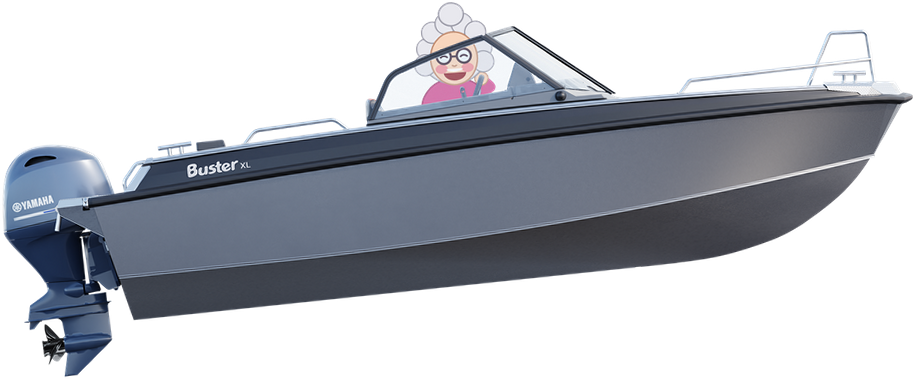
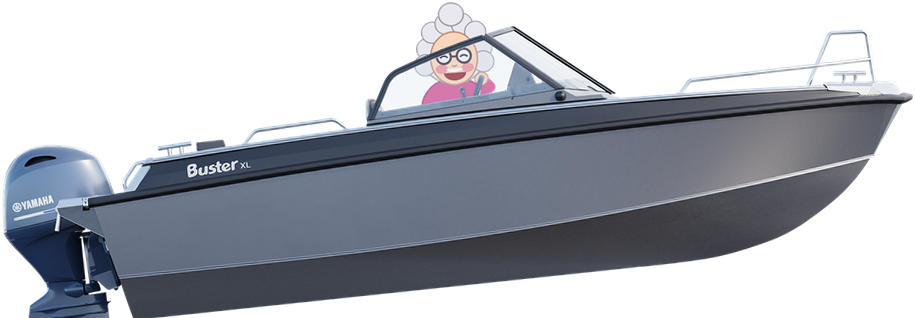
Revert boat smoothing; hide Buster's propeller; tune bow spray
- Back to drawing player boats from the full-size images (the
  pre-shrunk copies looked blurry once the canvas is scaled up).
- Buster image cut just below the hull, so the outboard's lower leg and
  propeller are hidden under water.
- Bow spray: 30% slower along the same arcs, emitted further aft and
  evenly, with a per-boat stretch (Buster's reaches to the outboard);
  density kept even.

diff --git a/src/scenes/GameScene.ts b/src/scenes/GameScene.ts
@@ -57,6 +57,9 @@ interface PlayerBoat {
   // Bow spray is thrown from the hull between the waterline and this line
   // (two points; the boundary of the dark bottom), from the bow contact aft.
   chine: [[x: number, y: number], [x: number, y: number]];
+  // Stretch along the hull the spray comes from, as shares of the way from
+  // the bow contact point (0) to the stern (1); below 0 reaches forward.
+  spray: [from: number, to: number];
 }
 const PLAYER_BOATS: PlayerBoat[] = [
   {
@@ -69,6 +72,7 @@ const PLAYER_BOATS: PlayerBoat[] = [
       [61, 234],
       [505, 187],
     ],
+    spray: [0.2, 0.9],
   },
   // Buster XL is 6 m to the Vejde's 9 m; both images are hull plus a little
   // extra (pulpit/platform, outboard), so width scales with real length.
@@ -82,6 +86,9 @@ const PLAYER_BOATS: PlayerBoat[] = [
       [115, 289],
       [700, 195],
     ],
+    // the Buster's contact point is far aft, so its spray reaches forward
+    // too, and back past the transom to the outboard (above 1)
+    spray: [-0.2, 1.3],
   },
 ];
 
@@ -314,65 +321,26 @@ export class GameScene extends Phaser.Scene {
   /** Dress the player sprite as the chosen boat: art, size, hitbox, bounds. */
   private applyBoat() {
     const spec = this.boatSpec;
-    // Draw from a copy pre-shrunk to the on-screen size (smooth edges); the
-    // spec's points are in original-image px, so convert them by `r`.
-    const width = spec.width * OBJECT_SCALE;
-    this.boat.setTexture(this.smoothTexture(spec.key, width));
-    const r = this.boatTexRatio();
-    this.boat.setScale(width / this.boat.frame.width);
+    this.boat.setTexture(spec.key);
+    this.boat.setScale((spec.width * OBJECT_SCALE) / this.boat.frame.width);
     // Hitbox covers the main hull only, for forgiving collisions. Arcade takes
-    // these in texture px and scales them with the sprite.
+    // these in source-image px and scales them with the sprite.
     const [hx, hy, hw, hh] = spec.hit;
     const body = this.boat.body as Body;
-    body.setSize(hw * r, hh * r, false);
-    body.setOffset(hx * r, hy * r);
+    body.setSize(hw, hh, false);
+    body.setOffset(hx, hy);
     // Bounds keep the boat inside the play area (it clamps to the edges instead
     // of dying there — the only way to fail is touching an obstacle). The
     // bottom is raised by the art below the hitbox, so the hull's visual
     // bottom lands on the deck line rather than crossing it.
-    const below = (this.boat.frame.height - (hy + hh) * r) * this.boat.scaleY;
+    const below = (this.boat.frame.height - hy - hh) * this.boat.scaleY;
     this.physics.world.setBounds(0, 0, GAME_WIDTH, PLAY_HEIGHT - below);
-  }
-
-  /** Player texture px per original-image px (the texture is a shrunk copy). */
-  private boatTexRatio() {
-    return this.boat.frame.width / this.textures.getFrame(this.boatSpec.key).width;
-  }
-
-  /**
-   * A copy of an image shrunk to `width` px with high-quality smoothing, in
-   * halving steps. Shrinking a big image a lot on the GPU each frame samples
-   * only a few of its pixels and leaves jagged edges; drawing a copy at its
-   * on-screen size gives smooth, anti-aliased ones. Cached in the texture
-   * manager, so it is made once per size.
-   */
-  private smoothTexture(key: string, width: number) {
-    const target = Math.max(1, Math.round(width));
-    const out = `${key}@${target}`;
-    if (this.textures.exists(out)) return out;
-    const src = this.textures.get(key).getSourceImage() as HTMLImageElement;
-    const step = (from: CanvasImageSource, w: number, h: number) => {
-      const c = document.createElement("canvas");
-      c.width = w;
-      c.height = h;
-      const ctx = c.getContext("2d")!;
-      ctx.imageSmoothingEnabled = true;
-      ctx.imageSmoothingQuality = "high";
-      ctx.drawImage(from, 0, 0, w, h);
-      return c;
-    };
-    let canvas = step(src, src.width, src.height);
-    while (canvas.width / 2 > target) canvas = step(canvas, Math.ceil(canvas.width / 2), Math.ceil(canvas.height / 2));
-    canvas = step(canvas, target, Math.max(1, Math.round((src.height * target) / src.width)));
-    this.textures.addCanvas(out, canvas);
-    return out;
   }
 
   /** A point on the player's boat in source-image px, as world coordinates (follows its tilt). */
   private boatPoint(px: number, py: number) {
-    const r = this.boatTexRatio();
-    const ox = (px * r - this.boat.frame.width / 2) * this.boat.scaleX;
-    const oy = (py * r - this.boat.frame.height / 2) * this.boat.scaleY;
+    const ox = (px - this.boat.frame.width / 2) * this.boat.scaleX;
+    const oy = (py - this.boat.frame.height / 2) * this.boat.scaleY;
     const c = Math.cos(this.boat.rotation);
     const s = Math.sin(this.boat.rotation);
     return { x: this.boat.x + c * ox - s * oy, y: this.boat.y + s * ox + c * oy };
@@ -395,9 +363,8 @@ export class GameScene extends Phaser.Scene {
     this.pickerCards = PLAYER_BOATS.map((spec, i) => {
       const x = x0 + i * (cardW + gap);
       const card = this.add.graphics();
-      const src = this.textures.getFrame(spec.key);
-      const fit = Math.min((cardW - 16) / src.width, (cardH - 16) / src.height);
-      const thumb = this.add.image(x + cardW / 2, y + cardH / 2, this.smoothTexture(spec.key, src.width * fit));
+      const thumb = this.add.image(x + cardW / 2, y + cardH / 2, spec.key);
+      thumb.setScale(Math.min((cardW - 16) / thumb.width, (cardH - 16) / thumb.height));
       const hit = this.add
         .zone(x, y, cardW, cardH)
         .setOrigin(0)
@@ -437,9 +404,11 @@ export class GameScene extends Phaser.Scene {
     // drops already in the air fly free of the boat.
     const k = OBJECT_SCALE;
     this.bowSpray = this.add.particles(0, 0, "droplet", {
-      speedX: { min: -190 * k, max: -50 * k }, // backwards
-      speedY: { min: -170 * k, max: -60 * k }, // and up
-      gravityY: 650 * k,
+      // backwards and up; speeds and gravity are 0.7x and 0.7²x of the
+      // first version, so drops trace the same arcs 30% slower
+      speedX: { min: -133 * k, max: -35 * k },
+      speedY: { min: -119 * k, max: -42 * k },
+      gravityY: 320 * k,
       scale: { min: 0.25 * k, max: 0.6 * k },
       alpha: { start: 1, end: 0 },
       lifespan: { min: 220, max: 420 }, // gone quickly, no lingering trail
@@ -467,11 +436,14 @@ export class GameScene extends Phaser.Scene {
     // the hull line the water climbs up to, at a given x
     const chineAt = (x: number) => Math.min(water, c0.y + ((c1.y - c0.y) * (x - c0.x)) / (c1.x - c0.x));
 
+    // a longer stretch gets proportionally more drops, so density stays even
+    const interval = 4.5 * (0.7 / (spec.spray[1] - spec.spray[0]));
     this.sprayClock += delta;
-    while (this.sprayClock > 6) {
-      this.sprayClock -= 6;
+    while (this.sprayClock > interval) {
+      this.sprayClock -= interval;
       if (Math.random() > f) continue;
-      const u = Math.pow(Math.random(), 1.6) * 0.7; // mostly near the contact point
+      // evenly along the boat's spray stretch
+      const u = spec.spray[0] + Math.random() * (spec.spray[1] - spec.spray[0]);
       const x = bow.x + (stern.x - bow.x) * u;
       const y = water - (water - chineAt(x)) * Math.random();
       this.bowSpray.emitParticleAt(x, y, 1);

diff --git a/tools/art/draw_buster.py b/tools/art/draw_buster.py
@@ -1,5 +1,6 @@
 # Buster XL player boat (bow right) from inbox/buster-xl.png, with a happy
-# granny at the helm and a slight bow-up tilt for speed. The granny is drawn
+# granny at the helm and a slight bow-up tilt for speed. The propeller is cut
+# off at the bottom, as if under water. The granny is drawn
 # *under* the boat image, so the semi-transparent windscreen tints her and
 # only her head sticks out above the frame.
 import sys
@@ -55,6 +56,10 @@ canvas.alpha_composite(granny)
 canvas.alpha_composite(boat, (0, PAD))
 out = canvas.rotate(TILT, resample=Image.BICUBIC, expand=True)  # counter-clockwise: bow up
 out = out.crop(out.getbbox())
+# Hide the outboard's lower leg and propeller "under water": cut just below
+# the hull's bottom at the stern (in the tilted image).
+CUT = 318
+out = out.crop((0, 0, out.width, CUT))
 out.save(OUT, optimize=True)
 print("size", out.size)
 bg = Image.new("RGBA", out.size, (20, 40, 50, 255)); bg.alpha_composite(out)
